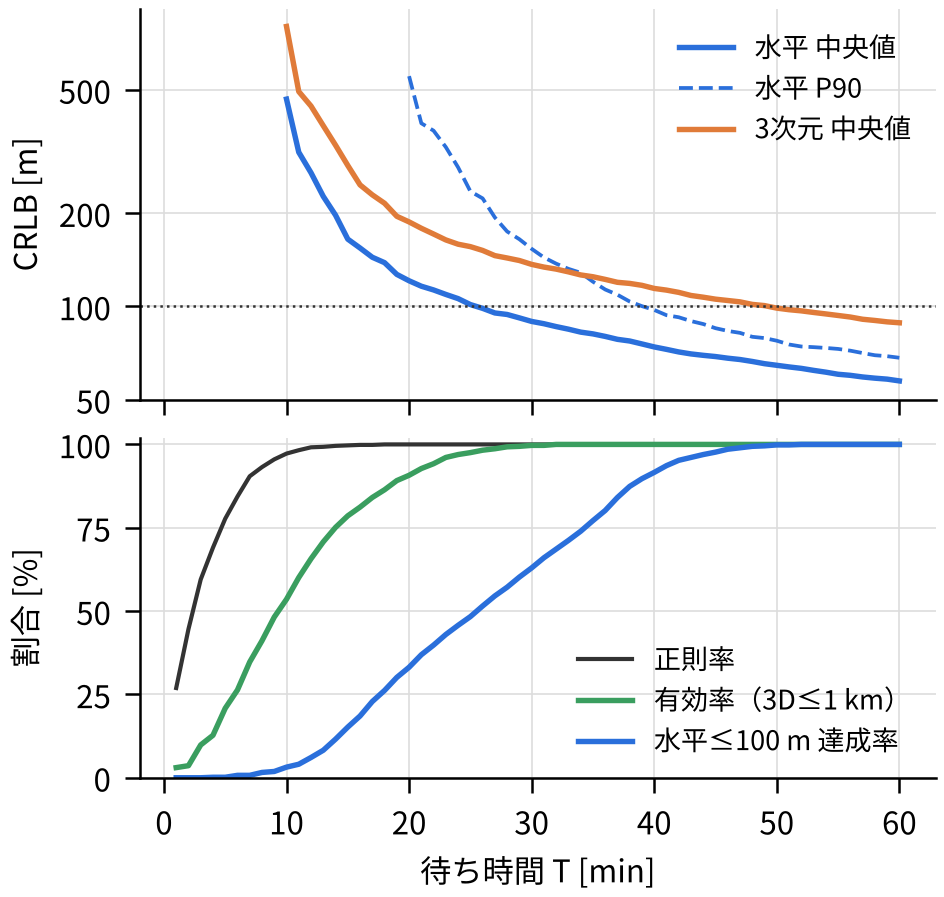
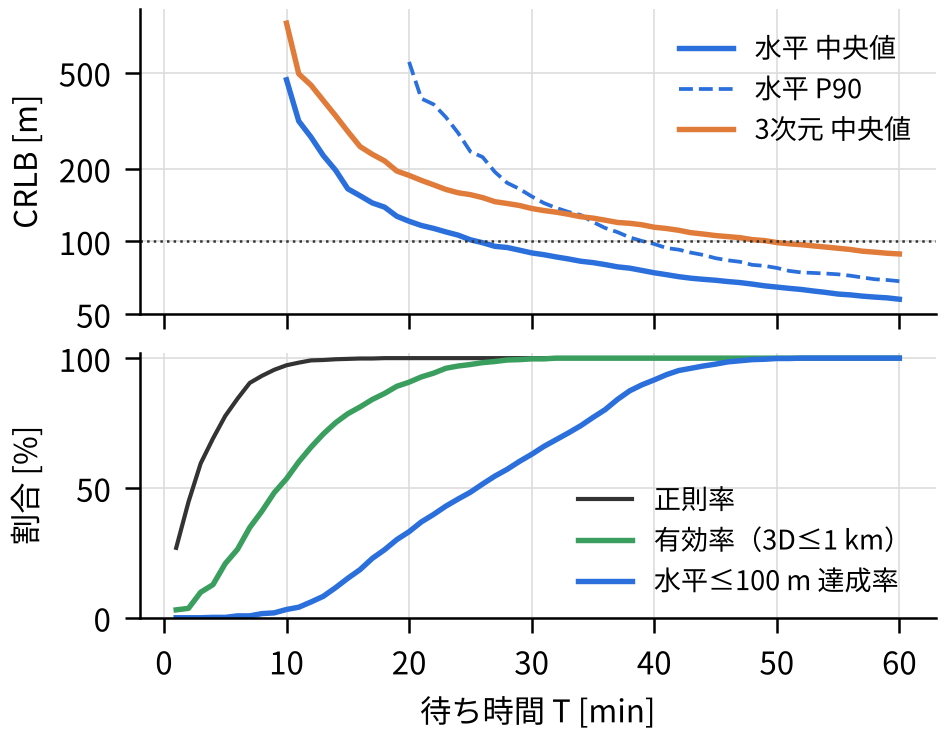
Shorten JIN figures 2 and 3 to fit six pages
Claude-Session: https://claude.ai/code/session_01XQQgEH5a1k9jx3u33YPHqE

diff --git a/research/sky_aperture_leo/figures_jin_20261013.py b/research/sky_aperture_leo/figures_jin_20261013.py
@@ -67,7 +67,7 @@ def fig_wait():
     w = d.wait_min.to_numpy()
     show = d.valid_pct.to_numpy() >= 50
     show90 = d.valid_pct.to_numpy() >= 90
-    fig, ax = plt.subplots(2, 1, figsize=(W_IN, W_IN * 0.95), sharex=True,
+    fig, ax = plt.subplots(2, 1, figsize=(W_IN, W_IN * 0.78), sharex=True,
                            gridspec_kw=dict(height_ratios=[1.15, 1]))
     a = ax[0]
     a.plot(w[show], d.H_med[show], color=C[0], lw=1.3, label="水平 中央値")
@@ -89,7 +89,7 @@ def fig_wait():
 
 def fig_az():
     d = pd.read_csv(RES / "E2_azimuth_sweep.csv")
-    fig, ax = plt.subplots(figsize=(W_IN, W_IN * 0.62))
+    fig, ax = plt.subplots(figsize=(W_IN, W_IN * 0.55))
     for k, n in enumerate((3, 4, 5, 6)):
         s = d[d.N == n].sort_values("A0")
         ax.plot(s.A0, s.H_med, marker="o", ms=2, lw=1.1, color=C[k], label=f"N={n}")
